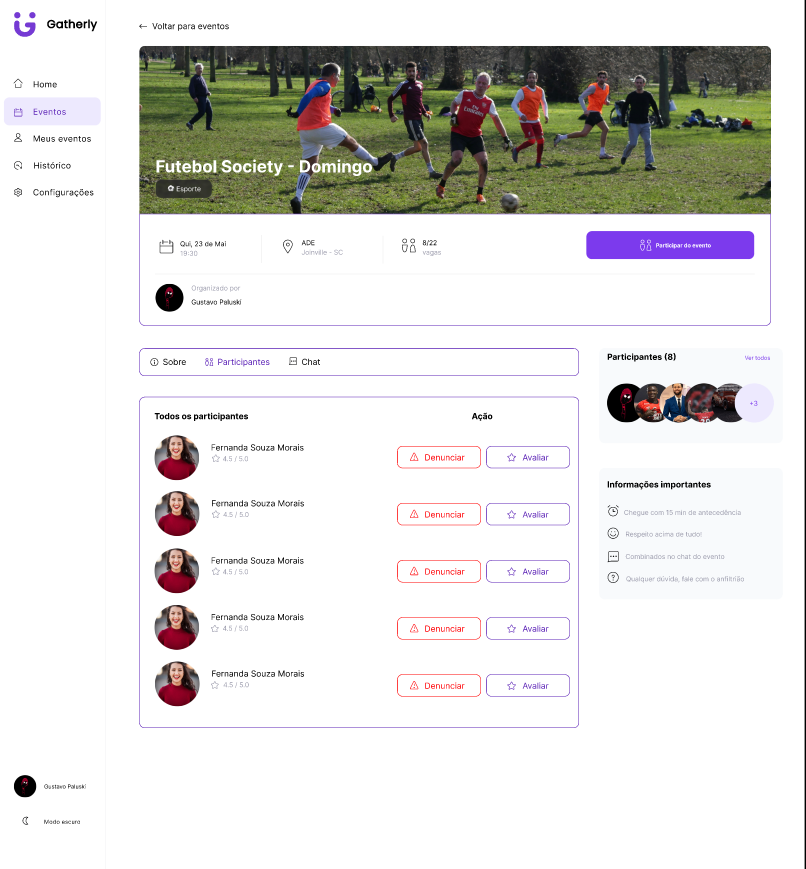
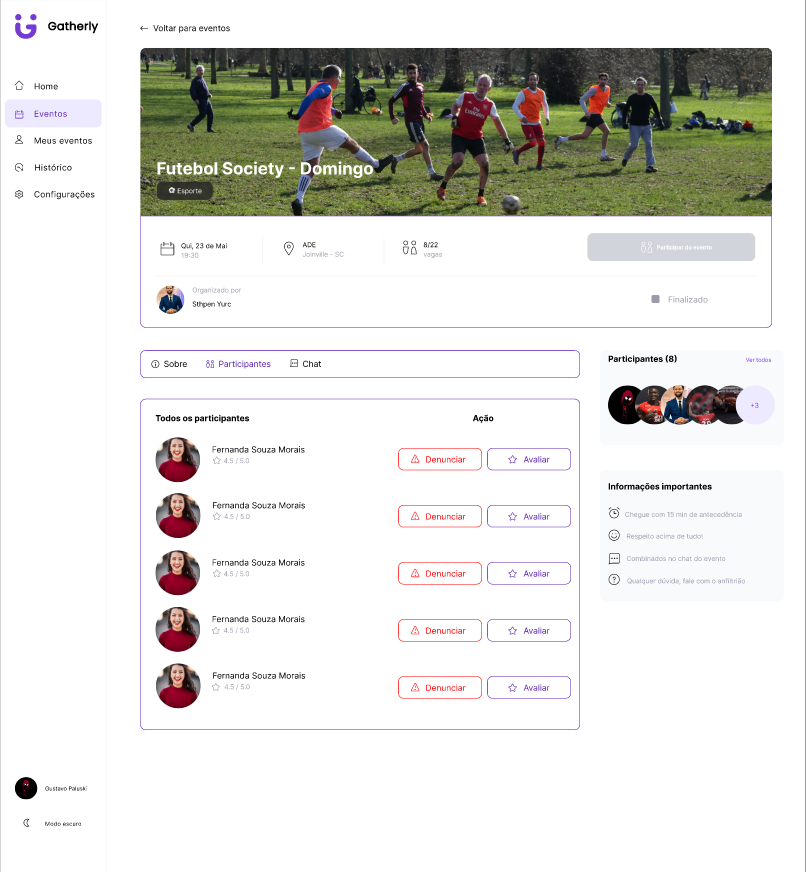
doc: topico 4 quase concluido

diff --git a/README.md b/README.md
@@ -747,39 +747,71 @@ Ao clicar em denunciar um participante o modal de denúncia aparece, pedindo o m
 
 Assim como a denúncia de participante, a avaliação dele também é mostrada por meio de um modal, mostrando qual participante está sendo avaliado, de qual evento está sendo essa avaliação e a nota, em formato de estrelas, que deseja enviar.
 
-Apresente os principais mockups do sistema.
+### Retorno para o usuário
+Após concluir uma ação, será mostrado para o usuário um aviso informando que a operação foi concluída com sucesso ou que algo deu errado, como mostra abaixo:
 
-Inclua pelo menos:
+<img src="img_readme/mensagem_sucesso_erro_base.png" alt="Mockup da base dos avisos de sucesso ou erro - Gatherly">
 
-- tela inicial
-- fluxo principal
-- tela de entrada de dados
-- tela de resultado ou visualização
+Um exemplo de retorno para o usuário, é a mensagem informando que o evento foi criado com sucesso:
 
-Para cada tela inclua:
+<img src="img_readme/Mensagem de sucesso Gatherly.png" alt="Mensagem de sucesso ao criar evento - Gatherly">
 
-- imagem
-- breve descrição da funcionalidade
-- ações principais do usuário
-
-Sempre que possível:
-
-- inclua **links para protótipo navegável**
-- inclua **prints das telas**
+### Link
+Toda a parte de criação dos mockups foi realizado através da plataforma "Figma".
+Link para acesso ao design: https://www.figma.com/design/EvgAtCGAUA9d0BuCmliouv/Gatherly?node-id=0-1&t=I1lSeSoxVVpX4jk4-1
 
 ---
 
 ## 4.3 Fluxo de Interação do Usuário
 
-Demonstre passo a passo um fluxo importante.
+As imagens abaixo demonstram o passo a passo para participar de um evento, que é o fluxo pricipal do sistema. Nele vai ser demonstrado onde o usuário tem que seguir para poder se inscrever em um evento
 
-Exemplo:
+### Fluxo: Participar de um evento
 
-1. usuário acessa o sistema  
-2. cria conta  
-3. registra dados  
-4. visualiza resultados  
+### Passo 1 - Acesso ao sistema
 
-Inclua **sequência de telas ou fluxo visual**.
+O usuário acessa a plataforma Gatherly por meio da tela inicial.
+
+<img src="img_readme/home_sem_login.png" alt="Homepage sem login - Gatherly">
+
+### Passo 2 - Autenticação
+
+O usuário realiza login utilizando e-mail e senha.
+
+<img src="img_readme/login_mockup.png" alt="Tela de login - Gatherly">
+
+### Passo 3 - Visualização dos eventos
+
+Após autenticado, o sistema apresenta a lista de eventos disponíveis.
+
+<img src="img_readme/homepage_mockup.png" alt="Homepage com login - Gatherly">
+<img src="img_readme/eventos_mockup.png" alt="Tela de eventos - Gatherly">
+
+### Passo 4 - Seleção do evento
+
+O usuário seleciona um evento para visualizar mais detalhes.
+
+<img src="img_readme/evento_tela_cheia.png" alt="Tela de evento em tela cheia - Gatherly">
+
+### Passo 5 - Participação no evento
+
+O usuário clica no botão “Participar do evento”, se tiver vaga ele vai ser cadastrado, aparecendo a informação no canto inferior direito da página. Além do aviso o botão de participar do evento é desabilitado, visto que o usuário logado acabou de se inscrever no evento.
+
+<img src="img_readme/confirmacao_de_participacao_de_evento.png" alt="Tela confirmação de evento - Gatherly">
+
+### Passo 6 - Evento concluído
+
+Após o evento ser concluído, é possível o participante seguir para a página de histórico, onde ele vai encontar esse último evento participado, podendo conferir algumas informações, denunciar e avaliar os participantes presentes no evento.
+
+<img src="img_readme/historico_mockup.png" alt="Tela histórico - Gatherly">
+
+<img src="img_readme/participantes_evento_mockup.png" alt="Tela de confirmação de evento - Gatherly">
+
+### Passo 7 - Avaliação ou denúncia
+
+O usuário pode avaliar participantes ou denunciar comportamentos inadequados.
+
+<img src="img_readme/denunciar_usuario_mockup.png" alt="Tela de denúncia - Gatherly">
+<img src="img_readme/avaliar_participante_mockup.png" alt="Tela de avaliação - Gatherly">
 
 ---
